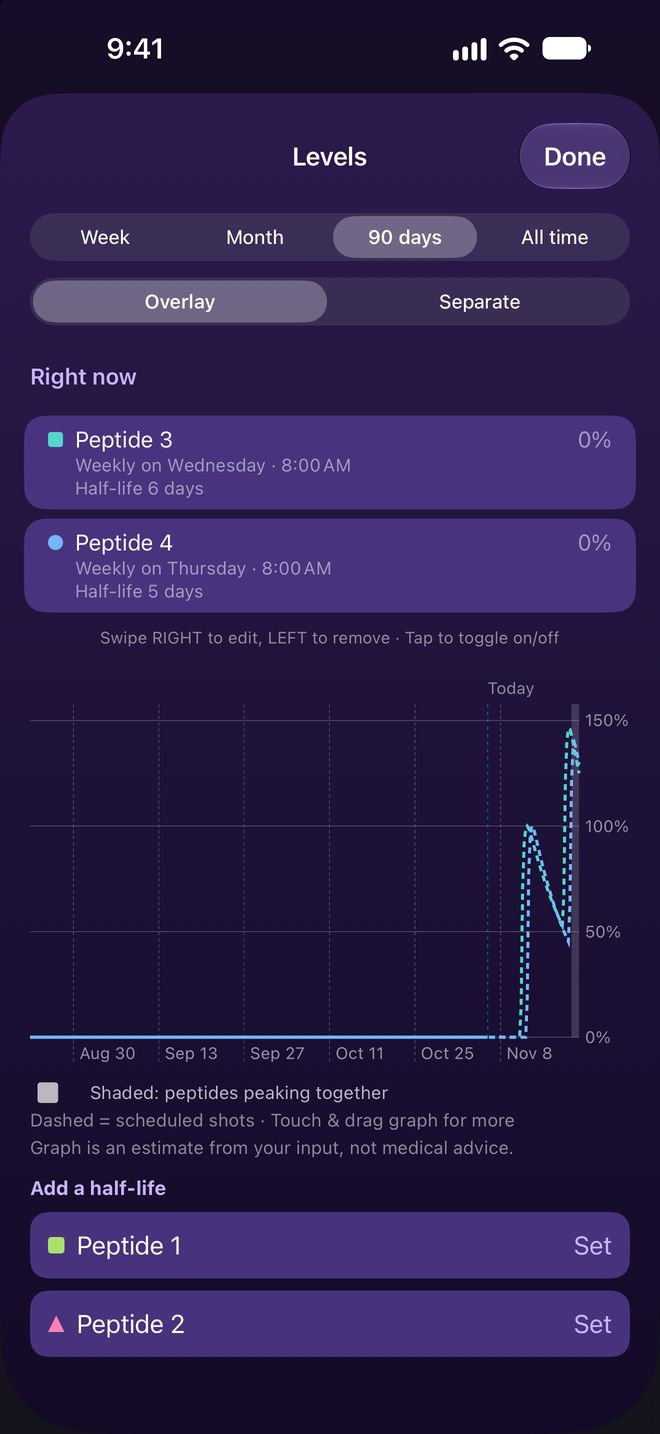
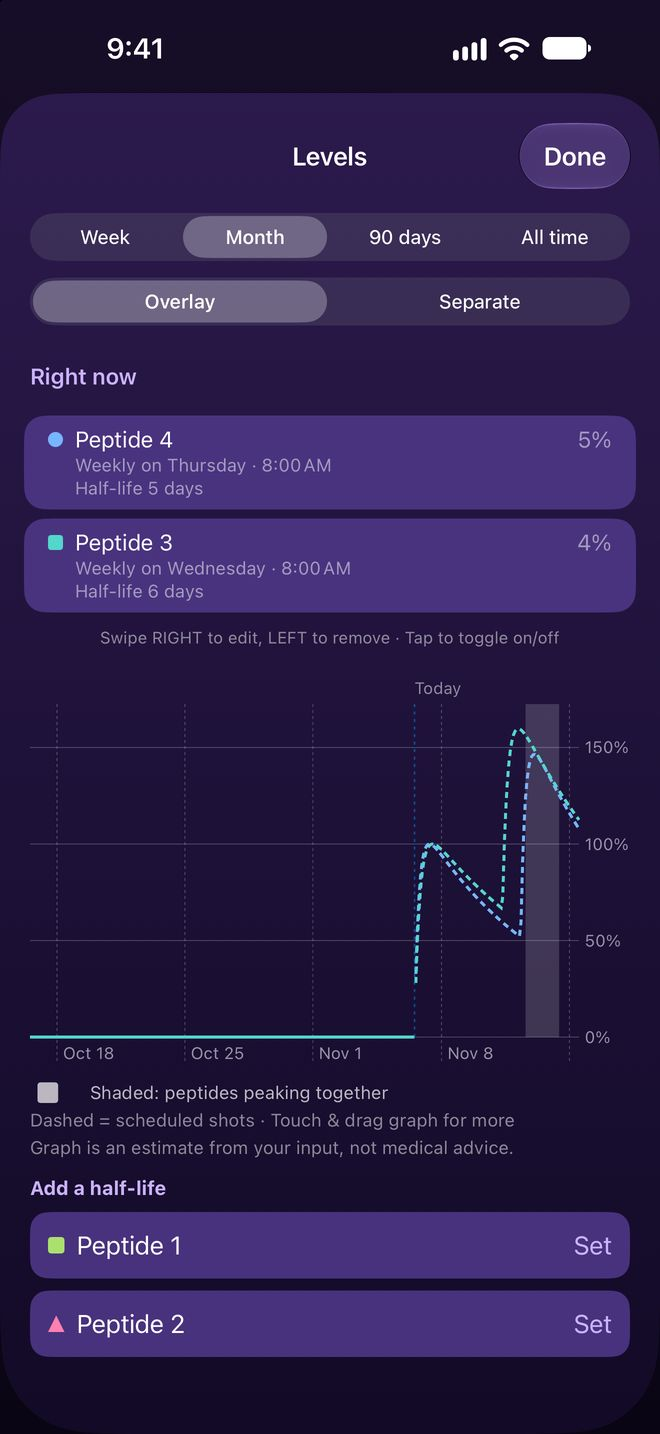
Add widget and Apple Watch screenshots, update Levels and add logged and upcoming views
Claude-Session: https://claude.ai/code/session_01NWtvSq9PfXihXUREt68rwq

diff --git a/index.html b/index.html
@@ -20,7 +20,7 @@
 <meta property="og:image:height" content="630">
 <meta property="og:image:alt" content="Nexdose app icon with calendar and body map screens">
 <meta name="twitter:image" content="https://www.nexdose.app/assets/og-image.png">
-<link rel="stylesheet" href="assets/style.css?v=3">
+<link rel="stylesheet" href="assets/style.css?v=4">
 <script type="application/ld+json">
 {"@context":"https://schema.org","@type":"MobileApplication","name":"Nexdose","operatingSystem":"iOS 18 or later","applicationCategory":"HealthApplication","description":"A simple, private injection tracker for weekly GLP-1 shots and other injections. One-tap logging, site rotation, reminders and reports. No account, no ads.","offers":[{"@type":"Offer","price":"0","priceCurrency":"USD","name":"Nexdose"},{"@type":"Offer","price":"14.99","priceCurrency":"USD","name":"Nexdose Plus (one-time purchase)"}],"author":{"@type":"Person","name":"Russell Gordon"},"url":"https://www.nexdose.app/"}
 </script>
@@ -42,7 +42,7 @@
 
 <section class="alt"><div class="wrap">
 <h2>See it in action</h2>
-<div class="shot-row"><h3>iPhone</h3><p class="row-intro">The whole app, built to be quick.</p><div class="shots"><figure class="shot"><picture><source srcset="assets/shots/calendar.webp" type="image/webp"><img src="assets/shots/calendar.jpg" alt="Nexdose calendar showing logged and upcoming shots for the month" width="660" height="1434" loading="lazy"></picture><figcaption>Log every shot in one tap</figcaption></figure><figure class="shot"><picture><source srcset="assets/shots/today.webp" type="image/webp"><img src="assets/shots/today.jpg" alt="Today's Shots list with the next injection site for each" width="660" height="1434" loading="lazy"></picture><figcaption>Never miss a shot</figcaption></figure><figure class="shot"><picture><source srcset="assets/shots/body-map.webp" type="image/webp"><img src="assets/shots/body-map.jpg" alt="Body map showing recent injection sites by zone" width="660" height="1434" loading="lazy"></picture><figcaption>Rotate sites without thinking</figcaption></figure><figure class="shot"><picture><source srcset="assets/shots/levels.webp" type="image/webp"><img src="assets/shots/levels.jpg" alt="Levels graph showing estimated levels between shots" width="660" height="1434" loading="lazy"></picture><figcaption>See your levels</figcaption></figure><figure class="shot"><picture><source srcset="assets/shots/weight.webp" type="image/webp"><img src="assets/shots/weight.jpg" alt="Weight log with goal progress and chart" width="660" height="1434" loading="lazy"></picture><figcaption>Track your progress</figcaption></figure><figure class="shot"><picture><source srcset="assets/shots/all-peptides.webp" type="image/webp"><img src="assets/shots/all-peptides.jpg" alt="All Peptides page with schedules and titration steps" width="660" height="1434" loading="lazy"></picture><figcaption>Every shot in one place</figcaption></figure></div></div><div class="shot-row"><h3>Widgets</h3><p class="row-intro">Log from your Home Screen or Lock Screen without opening the app.</p><div class="shots"><figure class="shot "><div class="ph">Home Screen widget<br><small>Screenshot coming</small></div><figcaption>Tap the check to log</figcaption></figure><figure class="shot "><div class="ph">Lock Screen widget<br><small>Screenshot coming</small></div><figcaption>Your next shot at a glance</figcaption></figure></div></div><div class="shot-row"><h3>Apple Watch</h3><p class="row-intro">See today's shots and log from your wrist.</p><div class="shots"><figure class="shot watch"><div class="ph">Watch: today's shots<br><small>Screenshot coming</small></div><figcaption>Tap to log</figcaption></figure><figure class="shot watch"><div class="ph">Watch face complication<br><small>Screenshot coming</small></div><figcaption>Your next shot on your watch face</figcaption></figure></div></div><div class="shot-row"><h3>Siri</h3><p class="row-intro">Log a shot with your voice.</p><div class="shots"><figure class="shot "><div class="ph">Siri logging a shot<br><small>Screenshot coming</small></div><figcaption>Just ask Siri</figcaption></figure></div></div>
+<div class="shot-row"><h3>iPhone</h3><p class="row-intro">The whole app, built to be quick.</p><div class="shots"><figure class="shot "><picture><source srcset="assets/shots/calendar.webp" type="image/webp"><img src="assets/shots/calendar.jpg" alt="Nexdose calendar showing logged and upcoming shots for the month" width="660" height="1434" loading="lazy"></picture><figcaption>See your month at a glance</figcaption></figure><figure class="shot "><picture><source srcset="assets/shots/calendar-logged.webp" type="image/webp"><img src="assets/shots/calendar-logged.jpg" alt="Calendar with a Logged message and Undo button after tapping a shot" width="660" height="1434" loading="lazy"></picture><figcaption>Log a shot in one tap</figcaption></figure><figure class="shot "><picture><source srcset="assets/shots/today.webp" type="image/webp"><img src="assets/shots/today.jpg" alt="Today's Shots list with the next injection site for each" width="660" height="1434" loading="lazy"></picture><figcaption>Never miss a shot</figcaption></figure><figure class="shot "><picture><source srcset="assets/shots/upcoming.webp" type="image/webp"><img src="assets/shots/upcoming.jpg" alt="Upcoming Shots list showing the next dose and site for each peptide" width="660" height="1434" loading="lazy"></picture><figcaption>See what's coming up</figcaption></figure><figure class="shot "><picture><source srcset="assets/shots/body-map.webp" type="image/webp"><img src="assets/shots/body-map.jpg" alt="Body map showing recent injection sites by zone" width="660" height="1434" loading="lazy"></picture><figcaption>Rotate sites without thinking</figcaption></figure><figure class="shot "><picture><source srcset="assets/shots/levels.webp" type="image/webp"><img src="assets/shots/levels.jpg" alt="Levels graph showing estimated levels between shots" width="660" height="1434" loading="lazy"></picture><figcaption>See your levels</figcaption></figure><figure class="shot "><picture><source srcset="assets/shots/weight.webp" type="image/webp"><img src="assets/shots/weight.jpg" alt="Weight log with goal progress and chart" width="660" height="1434" loading="lazy"></picture><figcaption>Track your progress</figcaption></figure></div></div><div class="shot-row"><h3>Widgets</h3><p class="row-intro">Log from your Home Screen or Lock Screen without opening the app.</p><div class="shots"><figure class="shot "><picture><source srcset="assets/shots/widget-home.webp" type="image/webp"><img src="assets/shots/widget-home.jpg" alt="Home Screen widget listing next shots with check buttons" width="660" height="1435" loading="lazy"></picture><figcaption>Your next shots on the Home Screen</figcaption></figure><figure class="shot "><picture><source srcset="assets/shots/widget-logged.webp" type="image/webp"><img src="assets/shots/widget-logged.jpg" alt="Home Screen widget showing a shot marked Logged" width="660" height="1435" loading="lazy"></picture><figcaption>Tap the check to log</figcaption></figure><figure class="shot "><picture><source srcset="assets/shots/widget-lock.webp" type="image/webp"><img src="assets/shots/widget-lock.jpg" alt="Lock Screen widget showing the next shot and injection site" width="660" height="1434" loading="lazy"></picture><figcaption>Your next shot on the Lock Screen</figcaption></figure></div></div><div class="shot-row"><h3>Apple Watch</h3><p class="row-intro">See today's shots and log from your wrist.</p><div class="shots"><figure class="shot watch"><picture><source srcset="assets/shots/watch-today.webp" type="image/webp"><img src="assets/shots/watch-today.jpg" alt="Apple Watch showing today's shots with check buttons" width="396" height="484" loading="lazy"></picture><figcaption>Today's shots on your wrist</figcaption></figure><figure class="shot watch"><picture><source srcset="assets/shots/watch-logged.webp" type="image/webp"><img src="assets/shots/watch-logged.jpg" alt="Apple Watch confirming a shot was logged" width="396" height="484" loading="lazy"></picture><figcaption>Tap to log</figcaption></figure></div></div><div class="shot-row"><h3>Siri</h3><p class="row-intro">Log a shot with your voice.</p><div class="shots"><figure class="shot "><div class="ph">Siri logging a shot<br><small>Screenshot coming</small></div><figcaption>Just ask Siri</figcaption></figure></div></div>
 </div></section>
 
 <section><div class="wrap">

diff --git a/assets/style.css b/assets/style.css
@@ -42,7 +42,8 @@ section.alt .card{background:var(--bg)}
 .shot{margin:0}
 .shot .ph{aspect-ratio:660/1434;border-radius:28px;border:2px dashed var(--line);background:var(--bg);display:flex;flex-direction:column;align-items:center;justify-content:center;text-align:center;padding:16px;margin-bottom:10px;color:var(--muted)}
 .shot.watch{flex-basis:180px}
-.shot.watch .ph{aspect-ratio:416/496;border-radius:44px}
+.shot.watch .ph{aspect-ratio:396/484;border-radius:44px}
+.shot.watch img{border-radius:40px}
 .shot-row{margin-top:36px}
 .shot-row h3{font-size:22px}
 .row-intro{color:var(--muted);margin:0 0 16px}

diff --git a/about/index.html b/about/index.html
@@ -20,7 +20,7 @@
 <meta property="og:image:height" content="630">
 <meta property="og:image:alt" content="Nexdose app icon with calendar and body map screens">
 <meta name="twitter:image" content="https://www.nexdose.app/assets/og-image.png">
-<link rel="stylesheet" href="../assets/style.css?v=3">
+<link rel="stylesheet" href="../assets/style.css?v=4">
 </head>
 <body>
 <header class="site"><div class="wrap">

diff --git a/how-to/index.html b/how-to/index.html
@@ -20,7 +20,7 @@
 <meta property="og:image:height" content="630">
 <meta property="og:image:alt" content="Nexdose app icon with calendar and body map screens">
 <meta name="twitter:image" content="https://www.nexdose.app/assets/og-image.png">
-<link rel="stylesheet" href="../assets/style.css?v=3">
+<link rel="stylesheet" href="../assets/style.css?v=4">
 </head>
 <body>
 <header class="site"><div class="wrap">

diff --git a/injection-safety/index.html b/injection-safety/index.html
@@ -20,7 +20,7 @@
 <meta property="og:image:height" content="630">
 <meta property="og:image:alt" content="Nexdose app icon with calendar and body map screens">
 <meta name="twitter:image" content="https://www.nexdose.app/assets/og-image.png">
-<link rel="stylesheet" href="../assets/style.css?v=3">
+<link rel="stylesheet" href="../assets/style.css?v=4">
 </head>
 <body>
 <header class="site"><div class="wrap">

diff --git a/plus/index.html b/plus/index.html
@@ -20,7 +20,7 @@
 <meta property="og:image:height" content="630">
 <meta property="og:image:alt" content="Nexdose app icon with calendar and body map screens">
 <meta name="twitter:image" content="https://www.nexdose.app/assets/og-image.png">
-<link rel="stylesheet" href="../assets/style.css?v=3">
+<link rel="stylesheet" href="../assets/style.css?v=4">
 </head>
 <body>
 <header class="site"><div class="wrap">

diff --git a/privacy-policy/index.html b/privacy-policy/index.html
@@ -20,7 +20,7 @@
 <meta property="og:image:height" content="630">
 <meta property="og:image:alt" content="Nexdose app icon with calendar and body map screens">
 <meta name="twitter:image" content="https://www.nexdose.app/assets/og-image.png">
-<link rel="stylesheet" href="../assets/style.css?v=3">
+<link rel="stylesheet" href="../assets/style.css?v=4">
 </head>
 <body>
 <header class="site"><div class="wrap">

diff --git a/support/index.html b/support/index.html
@@ -20,7 +20,7 @@
 <meta property="og:image:height" content="630">
 <meta property="og:image:alt" content="Nexdose app icon with calendar and body map screens">
 <meta name="twitter:image" content="https://www.nexdose.app/assets/og-image.png">
-<link rel="stylesheet" href="../assets/style.css?v=3">
+<link rel="stylesheet" href="../assets/style.css?v=4">
 </head>
 <body>
 <header class="site"><div class="wrap">
